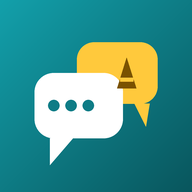
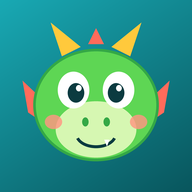
Idiomas v0.2.1: nuevo icono (dragon)

diff --git a/sw.js b/sw.js
@@ -1,5 +1,5 @@
 /* Service worker de Idiomas: guarda la app y el curso (son archivos fijos) para estudiar sin internet. Tu progreso vive en tu hoja de Google. */
-const CACHE = "idiomas-v0.2.0";
+const CACHE = "idiomas-v0.2.1";
 const FILES = ["./","index.html","idiomas.css","idiomas.js","motor.js","acceso.js","config.js","manifest.webmanifest","icon-180.png","icon-192.png","icon-512.png","data/cursos.json","data/plan.json","data/en/a1-u1.json","data/en/a1-u2.json","data/en/a1-u3.json","data/en/a1-u4.json","data/en/a1-u5.json","data/en/a1-u6.json","data/en/a1-u7.json","data/en/a1-u8.json","data/en/a1-u9.json","data/en/a1-u10.json","data/pt/a1-u1.json","data/pt/a1-u2.json","data/pt/a1-u3.json","data/pt/a1-u4.json","data/pt/a1-u5.json","data/pt/a1-u6.json","data/pt/a1-u7.json","data/pt/a1-u8.json","data/pt/a1-u9.json","data/pt/a1-u10.json","data/it/a1-u1.json","data/it/a1-u2.json","data/it/a1-u3.json","data/it/a1-u4.json","data/it/a1-u5.json","data/it/a1-u6.json","data/it/a1-u7.json","data/it/a1-u8.json","data/it/a1-u9.json","data/it/a1-u10.json"];
 self.addEventListener("install", (e) => { e.waitUntil(caches.open(CACHE).then((c) => c.addAll(FILES)).then(() => self.skipWaiting())); });
 self.addEventListener("activate", (e) => { e.waitUntil(caches.keys().then((ks) => Promise.all(ks.filter((k) => k !== CACHE).map((k) => caches.delete(k)))).then(() => self.clients.claim())); });

diff --git a/idiomas.js b/idiomas.js
@@ -1,7 +1,7 @@
 /* Idiomas · curso por unidades con lecciones, repaso espaciado y audio. Tu progreso va a tu hoja «Fergard · Idiomas». */
 (function () {
   "use strict";
-  var CFG = window.FG_CFG || {}, VERSION = "0.2.0", DB_KEY = "idiomas_db", M = window.IMotor;
+  var CFG = window.FG_CFG || {}, VERSION = "0.2.1", DB_KEY = "idiomas_db", M = window.IMotor;
   var IDI = [{ id: "en", n: "Inglés", nat: "English", b: "🇺🇸", voz: "en-US" }, { id: "pt", n: "Portugués", nat: "Português", b: "🇧🇷", voz: "pt-BR" }, { id: "it", n: "Italiano", nat: "Italiano", b: "🇮🇹", voz: "it-IT" }];
   var $ = function (s, r) { return (r || document).querySelector(s); };
   var $$ = function (s, r) { return Array.prototype.slice.call((r || document).querySelectorAll(s)); };

diff --git a/index.html b/index.html
@@ -10,8 +10,8 @@
 <meta name="theme-color" content="#F1FAF9">
 <meta name="robots" content="noindex,nofollow">
 <link rel="manifest" href="manifest.webmanifest">
-<link rel="apple-touch-icon" href="icon-180.png">
-<link rel="icon" href="icon-192.png">
+<link rel="apple-touch-icon" href="icon-180.png?v=2">
+<link rel="icon" href="icon-192.png?v=2">
 <title>Idiomas</title>
 <link rel="stylesheet" href="idiomas.css">
 </head>
